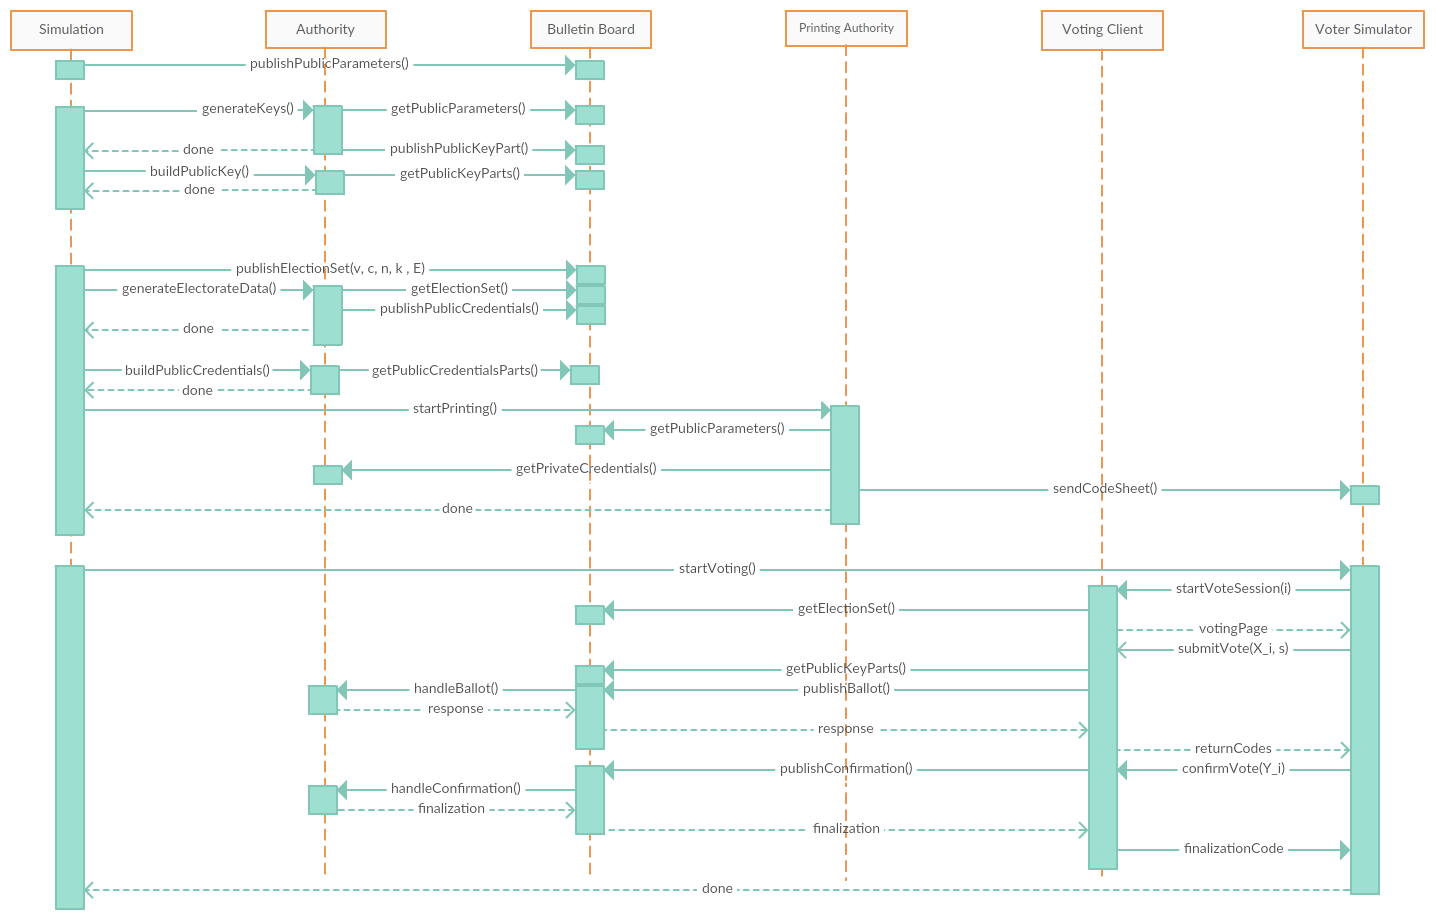
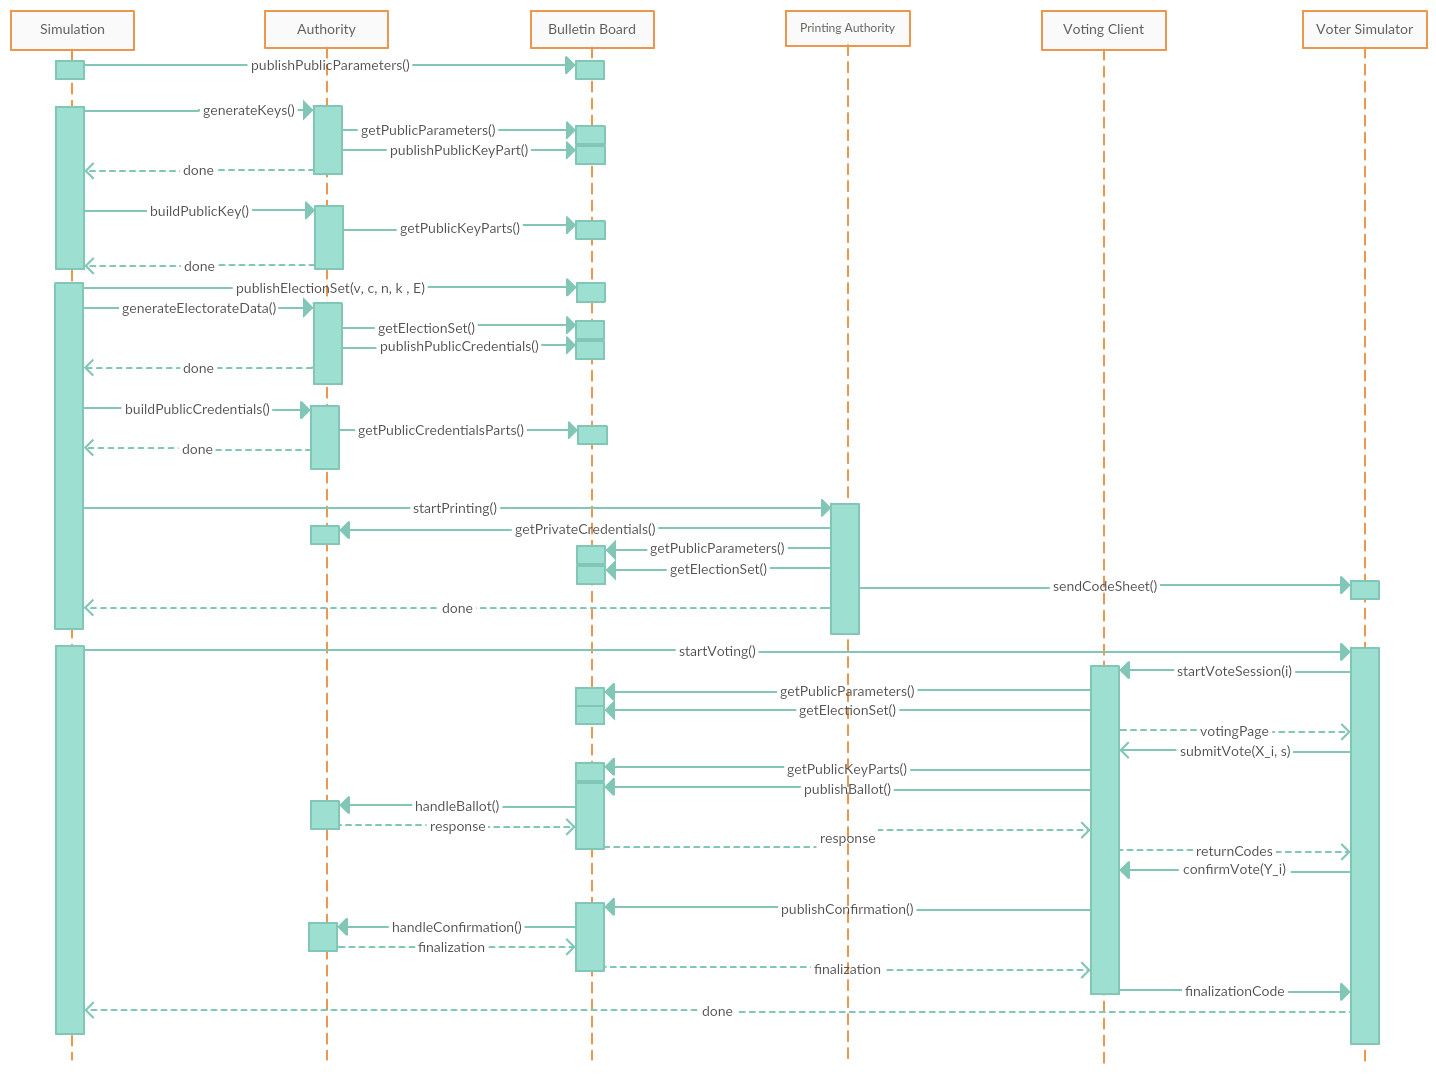
Add DefaultVotingClient implementation Add simulation implementation of PrintingAuthority

diff --git a/src/main/java/ch/ge/ve/protopoc/service/protocol/DefaultVotingClient.java b/src/main/java/ch/ge/ve/protopoc/service/protocol/DefaultVotingClient.java
@@ -1,0 +1,127 @@
+package ch.ge.ve.protopoc.service.protocol;
+
+import ch.ge.ve.protopoc.service.algorithm.KeyEstablishmentAlgorithms;
+import ch.ge.ve.protopoc.service.algorithm.VoteCastingClientAlgorithms;
+import ch.ge.ve.protopoc.service.algorithm.VoteConfirmationClientAlgorithms;
+import ch.ge.ve.protopoc.service.exception.*;
+import ch.ge.ve.protopoc.service.model.*;
+import ch.ge.ve.protopoc.service.model.polynomial.Point;
+import com.google.common.base.Preconditions;
+
+import java.math.BigInteger;
+import java.util.List;
+import java.util.stream.Collectors;
+
+/**
+ * Default implementation for the {@link VotingClientService}
+ */
+public class DefaultVotingClient implements VotingClientService {
+    private final BulletinBoardService bulletinBoardService;
+    private final KeyEstablishmentAlgorithms keyEstablishmentAlgorithms;
+    private final VoteCastingClientAlgorithms voteCastingClientAlgorithms;
+    private final VoteConfirmationClientAlgorithms voteConfirmationClientAlgorithms;
+    private PublicParameters publicParameters;
+    private ElectionSet electionSet;
+    private Integer voterIndex;
+    private List<BigInteger> randomizations;
+    private List<Integer> voterSelectionCounts;
+    private List<List<Point>> pointMatrix;
+
+    public DefaultVotingClient(BulletinBoardService bulletinBoardService,
+                               KeyEstablishmentAlgorithms keyEstablishmentAlgorithms,
+                               VoteCastingClientAlgorithms voteCastingClientAlgorithms,
+                               VoteConfirmationClientAlgorithms voteConfirmationClientAlgorithms) {
+        this.bulletinBoardService = bulletinBoardService;
+        this.keyEstablishmentAlgorithms = keyEstablishmentAlgorithms;
+        this.voteCastingClientAlgorithms = voteCastingClientAlgorithms;
+        this.voteConfirmationClientAlgorithms = voteConfirmationClientAlgorithms;
+    }
+
+    @Override
+    public VotingPageData startVoteSession(Integer voterIndex) {
+        this.voterIndex = voterIndex;
+        publicParameters = bulletinBoardService.getPublicParameters();
+        electionSet = bulletinBoardService.getElectionSet();
+
+        Voter voter = electionSet.getVoters().get(voterIndex);
+        voterSelectionCounts = electionSet.getElections().stream()
+                .map(e -> electionSet.isEligible(voter, e) ? e.getNumberOfSelections() : 0)
+                .collect(Collectors.toList());
+
+
+        return new VotingPageData(voterSelectionCounts);
+    }
+
+    @Override
+    public byte[][] sumbitVote(byte[] identificationCredentials, List<Integer> selections) throws VoteCastingException {
+        Preconditions.checkState(publicParameters != null,
+                "The public parameters need to have been retrieved first");
+        Preconditions.checkState(electionSet != null,
+                "The electionSet needs to have been retrieved first");
+
+        List<EncryptionPublicKey> publicKeyParts = bulletinBoardService.getPublicKeyParts();
+        EncryptionPublicKey systemPublicKey = keyEstablishmentAlgorithms.getPublicKey(publicKeyParts);
+
+        BallotQueryAndRand ballotQueryAndRand = computeBallot(identificationCredentials, selections, systemPublicKey);
+        randomizations = ballotQueryAndRand.getBold_r();
+
+        List<ObliviousTransferResponse> obliviousTransferResponses = sentBallotAndQuery(ballotQueryAndRand.getAlpha());
+
+        pointMatrix = computePointMatrix(selections, obliviousTransferResponses);
+
+        return voteCastingClientAlgorithms.getReturnCodes(pointMatrix);
+    }
+
+    private BallotQueryAndRand computeBallot(byte[] identificationCredentials, List<Integer> selections, EncryptionPublicKey systemPublicKey) throws VoteCastingException {
+        BallotQueryAndRand ballotQueryAndRand;
+        try {
+            ballotQueryAndRand =
+                    voteCastingClientAlgorithms.genBallot(identificationCredentials, selections, systemPublicKey);
+        } catch (IncompatibleParametersException e) {
+            throw new VoteCastingException(e);
+        }
+        return ballotQueryAndRand;
+    }
+
+    private List<ObliviousTransferResponse> sentBallotAndQuery(BallotAndQuery ballotAndQuery) throws VoteCastingException {
+        List<ObliviousTransferResponse> obliviousTransferResponses;
+        try {
+            obliviousTransferResponses = bulletinBoardService.publishBallot(voterIndex, ballotAndQuery);
+        } catch (IncorrectBallotOrQueryException e) {
+            throw new VoteCastingException(e);
+        }
+        return obliviousTransferResponses;
+    }
+
+    private List<List<Point>> computePointMatrix(List<Integer> selections, List<ObliviousTransferResponse> obliviousTransferResponses) throws VoteCastingException {
+        List<List<Point>> pointMatrix;
+        try {
+            pointMatrix = voteCastingClientAlgorithms.getPointMatrix(obliviousTransferResponses, voterSelectionCounts, selections, randomizations);
+        } catch (InvalidObliviousTransferResponseException e) {
+            throw new VoteCastingException(e);
+        }
+        return pointMatrix;
+    }
+
+    @Override
+    public byte[] confirmVote(byte[] confirmationCredentials) throws VoteConfirmationException {
+        Preconditions.checkState(publicParameters != null,
+                "The public parameters need to have been retrieved first");
+        Preconditions.checkState(electionSet != null,
+                "The electionSet needs to have been retrieved first");
+        Preconditions.checkState(pointMatrix != null,
+                "The point matrix needs to have been computed first");
+
+        Confirmation confirmation = voteConfirmationClientAlgorithms.genConfirmation(voterIndex,
+                confirmationCredentials, pointMatrix, voterSelectionCounts);
+
+        List<FinalizationCodePart> finalizationCodeParts;
+        try {
+            finalizationCodeParts = bulletinBoardService.publishConfirmation(voterIndex, confirmation);
+        } catch (IncorrectConfirmationException e) {
+            throw new VoteConfirmationException(e);
+        }
+
+        return voteConfirmationClientAlgorithms.getFinalizationCode(finalizationCodeParts);
+    }
+}

diff --git a/src/main/java/ch/ge/ve/protopoc/service/algorithm/VoteCastingClientAlgorithms.java b/src/main/java/ch/ge/ve/protopoc/service/algorithm/VoteCastingClientAlgorithms.java
@@ -1,7 +1,7 @@
 package ch.ge.ve.protopoc.service.algorithm;
 
 import ch.ge.ve.protopoc.service.exception.IncompatibleParametersException;
-import ch.ge.ve.protopoc.service.exception.InvalidObliviousTransferResponse;
+import ch.ge.ve.protopoc.service.exception.InvalidObliviousTransferResponseException;
 import ch.ge.ve.protopoc.service.exception.NotEnoughPrimesInGroupException;
 import ch.ge.ve.protopoc.service.model.*;
 import ch.ge.ve.protopoc.service.model.polynomial.Point;
@@ -177,13 +177,13 @@ public class VoteCastingClientAlgorithms {
      * @param bold_s    the vector of selected primes
      * @param bold_r    the vector of randomizations used for the OT query
      * @return the point matrix corresponding to the replies of the s authorities for the k selections
-     * @throws InvalidObliviousTransferResponse when one of the points would be outside the defined space
+     * @throws InvalidObliviousTransferResponseException when one of the points would be outside the defined space
      */
     public List<List<Point>> getPointMatrix(
             List<ObliviousTransferResponse> bold_beta,
             List<Integer> bold_k,
             List<Integer> bold_s,
-            List<BigInteger> bold_r) throws InvalidObliviousTransferResponse {
+            List<BigInteger> bold_r) throws InvalidObliviousTransferResponseException {
         List<List<Point>> bold_P = new ArrayList<>();
 
         for (ObliviousTransferResponse beta_j : bold_beta) {
@@ -201,13 +201,13 @@ public class VoteCastingClientAlgorithms {
      * @param bold_s the vector of selected primes
      * @param bold_r the vector of randomizations used for the OT query
      * @return the points corresponding to the authority's reply for the k selections
-     * @throws InvalidObliviousTransferResponse when one of the points would be outside the defined space
+     * @throws InvalidObliviousTransferResponseException when one of the points would be outside the defined space
      */
     public List<Point> getPoints(
             ObliviousTransferResponse beta,
             List<Integer> bold_k,
             List<Integer> bold_s,
-            List<BigInteger> bold_r) throws InvalidObliviousTransferResponse {
+            List<BigInteger> bold_r) throws InvalidObliviousTransferResponseException {
         List<Point> bold_p = new ArrayList<>();
         List<BigInteger> b = beta.getB();
         byte[][] c = beta.getC();
@@ -223,7 +223,7 @@ public class VoteCastingClientAlgorithms {
                 BigInteger x_i = conversion.toInteger(Arrays.copyOfRange(M_i, 0, L_m / 2 + 1));
                 BigInteger y_i = conversion.toInteger(Arrays.copyOfRange(M_i, L_m / 2 + 1, M_i.length));
                 if (x_i.compareTo(p_prime) >= 0 || y_i.compareTo(p_prime) >= 0) {
-                    throw new InvalidObliviousTransferResponse("x_i >= p' or y_i >= p'");
+                    throw new InvalidObliviousTransferResponseException("x_i >= p' or y_i >= p'");
                 }
                 bold_p.add(new Point(x_i, y_i));
                 i++;

diff --git a/src/main/java/ch/ge/ve/protopoc/service/simulation/PrintingAuthoritySimulator.java b/src/main/java/ch/ge/ve/protopoc/service/simulation/PrintingAuthoritySimulator.java
@@ -1,0 +1,47 @@
+package ch.ge.ve.protopoc.service.simulation;
+
+import ch.ge.ve.protopoc.service.algorithm.CodeSheetPreparationAlgorithms;
+import ch.ge.ve.protopoc.service.model.CodeSheet;
+import ch.ge.ve.protopoc.service.model.ElectionSet;
+import ch.ge.ve.protopoc.service.model.PublicParameters;
+import ch.ge.ve.protopoc.service.model.SecretVoterData;
+import ch.ge.ve.protopoc.service.protocol.AuthorityService;
+import ch.ge.ve.protopoc.service.protocol.BulletinBoardService;
+import com.google.common.base.Preconditions;
+
+import java.util.ArrayList;
+import java.util.List;
+
+/**
+ * Simulation class for the Printing Authority
+ */
+public class PrintingAuthoritySimulator {
+    private final BulletinBoardService bulletinBoardService;
+    private final List<AuthorityService> authorities = new ArrayList<>();
+    private final CodeSheetPreparationAlgorithms codeSheetPreparationAlgorithms;
+
+    public PrintingAuthoritySimulator(BulletinBoardService bulletinBoardService, CodeSheetPreparationAlgorithms codeSheetPreparationAlgorithms) {
+        this.bulletinBoardService = bulletinBoardService;
+        this.codeSheetPreparationAlgorithms = codeSheetPreparationAlgorithms;
+    }
+
+    public void setAuthorities(List<AuthorityService> authorities) {
+        Preconditions.checkState(this.authorities.isEmpty(),
+                "The authorities cannot be changed once they have been set");
+        this.authorities.addAll(authorities);
+    }
+
+    public void startPrinting() {
+        PublicParameters publicParameters = bulletinBoardService.getPublicParameters();
+        Preconditions.checkState(authorities.size() == publicParameters.getS(),
+                "The number of authorities should match the public parameters");
+        ElectionSet electionSet = bulletinBoardService.getElectionSet();
+
+        List<List<SecretVoterData>> voterDataMatrix = new ArrayList<>();
+        for (AuthorityService authority : authorities) {
+            voterDataMatrix.add(authority.getPrivateCredentials());
+        }
+
+        List<CodeSheet> sheets = codeSheetPreparationAlgorithms.getSheets(electionSet, voterDataMatrix);
+    }
+}

diff --git a/src/main/java/ch/ge/ve/protopoc/service/protocol/DefaultBulletinBoard.java b/src/main/java/ch/ge/ve/protopoc/service/protocol/DefaultBulletinBoard.java
@@ -11,7 +11,7 @@ import java.util.*;
 import java.util.stream.Collectors;
 
 /**
- * Default implementation of the bulletin board service
+ * Default implementation of the {@link BulletinBoardService}
  */
 public class DefaultBulletinBoard implements BulletinBoardService {
     private final List<AuthorityService> authorities = new ArrayList<>();
@@ -114,19 +114,18 @@ public class DefaultBulletinBoard implements BulletinBoardService {
     }
 
     @Override
-    public byte[][] publishConfirmation(Integer voterIndex, Confirmation confirmation)
+    public List<FinalizationCodePart> publishConfirmation(Integer voterIndex, Confirmation confirmation)
             throws IncorrectConfirmationException {
         Preconditions.checkState(publicParameters != null,
                 "The public parameters need to have been defined first");
         Preconditions.checkState(authorities.size() == publicParameters.getS(),
                 "The number of authorities should match the public parameters");
 
-        byte[][] finalizationCodeParts = new byte[authorities.size()][];
+        List<FinalizationCodePart> finalizationCodeParts = new ArrayList<>();
 
         for (int i = 0; i < authorities.size(); i++) {
             AuthorityService authority = authorities.get(i);
-            FinalizationCodePart finalizationCodePart = authority.handleConfirmation(voterIndex, confirmation);
-            finalizationCodeParts[i] = finalizationCodePart.getF();
+            finalizationCodeParts.add(authority.handleConfirmation(voterIndex, confirmation));
         }
 
         return finalizationCodeParts;

diff --git a/src/main/java/ch/ge/ve/protopoc/service/algorithm/KeyEstablishmentAlgorithms.java b/src/main/java/ch/ge/ve/protopoc/service/algorithm/KeyEstablishmentAlgorithms.java
@@ -7,6 +7,7 @@ import ch.ge.ve.protopoc.service.support.RandomGenerator;
 
 import java.math.BigInteger;
 import java.security.KeyPair;
+import java.util.List;
 
 /**
  * Algorithms used during the key establishment part of the election preparation phase
@@ -36,10 +37,10 @@ public class KeyEstablishmentAlgorithms {
      * @param publicKeys the set of public key shares that should be combined
      * @return the combined public key
      */
-    public EncryptionPublicKey getPublicKey(EncryptionPublicKey... publicKeys) {
+    public EncryptionPublicKey getPublicKey(List<EncryptionPublicKey> publicKeys) {
         // check all encryption groups are equal
         BigInteger publicKey = BigInteger.ONE;
-        EncryptionGroup eg = publicKeys[0].getEncryptionGroup();
+        EncryptionGroup eg = publicKeys.get(0).getEncryptionGroup();
         for (EncryptionPublicKey key : publicKeys) {
             publicKey = publicKey.multiply(key.getPublicKey()).mod(eg.getP());
         }

diff --git a/src/main/java/ch/ge/ve/protopoc/service/protocol/VotingClientService.java b/src/main/java/ch/ge/ve/protopoc/service/protocol/VotingClientService.java
@@ -1,8 +1,10 @@
 package ch.ge.ve.protopoc.service.protocol;
 
+import ch.ge.ve.protopoc.service.exception.IncompatibleParametersException;
+import ch.ge.ve.protopoc.service.exception.VoteCastingException;
+import ch.ge.ve.protopoc.service.exception.VoteConfirmationException;
 import ch.ge.ve.protopoc.service.model.VotingPageData;
 
-import java.math.BigInteger;
 import java.util.List;
 
 /**
@@ -11,7 +13,7 @@ import java.util.List;
 public interface VotingClientService {
     VotingPageData startVoteSession(Integer voterIndex);
 
-    byte[][] sumbitVote(byte[] identificationCredentials, List<BigInteger> selections);
+    byte[][] sumbitVote(byte[] identificationCredentials, List<Integer> selections) throws IncompatibleParametersException, VoteCastingException;
 
-    byte[] confirmVote(byte[] confirmationCredentials);
+    byte[] confirmVote(byte[] confirmationCredentials) throws VoteConfirmationException;
 }

diff --git a/src/main/java/ch/ge/ve/protopoc/service/exception/InvalidObliviousTransferResponseException.java b/src/main/java/ch/ge/ve/protopoc/service/exception/InvalidObliviousTransferResponseException.java
@@ -4,8 +4,8 @@ package ch.ge.ve.protopoc.service.exception;
  * Exception thrown on the voting client when an invalid oblivious transfer response is detected.
  * (or a computation error occurred...)
  */
-public class InvalidObliviousTransferResponse extends Exception {
-    public InvalidObliviousTransferResponse(String s) {
+public class InvalidObliviousTransferResponseException extends Exception {
+    public InvalidObliviousTransferResponseException(String s) {
         super(s);
     }
 }

diff --git a/src/main/java/ch/ge/ve/protopoc/service/model/VotingPageData.java b/src/main/java/ch/ge/ve/protopoc/service/model/VotingPageData.java
@@ -1,7 +1,18 @@
 package ch.ge.ve.protopoc.service.model;
 
+import java.util.List;
+
 /**
  * Model class containing the data necessary for presenting the voting page to the voter
  */
 public class VotingPageData {
+    private final List<Integer> selectionCounts;
+
+    public VotingPageData(List<Integer> selectionCounts) {
+        this.selectionCounts = selectionCounts;
+    }
+
+    public List<Integer> getSelectionCounts() {
+        return selectionCounts;
+    }
 }

diff --git a/src/main/java/ch/ge/ve/protopoc/service/protocol/DefaultAuthority.java b/src/main/java/ch/ge/ve/protopoc/service/protocol/DefaultAuthority.java
@@ -70,7 +70,7 @@ public class DefaultAuthority implements AuthorityService {
         Preconditions.checkArgument(publicKeyParts.size() == publicParameters.getS());
         Preconditions.checkArgument(publicKeyParts.get(j).equals(myPublicKey));
 
-        systemPublicKey = keyEstablishmentAlgorithms.getPublicKey(publicKeyParts.toArray(new EncryptionPublicKey[0]));
+        systemPublicKey = keyEstablishmentAlgorithms.getPublicKey(publicKeyParts);
     }
 
     @Override

diff --git a/src/main/java/ch/ge/ve/protopoc/service/protocol/BulletinBoardService.java b/src/main/java/ch/ge/ve/protopoc/service/protocol/BulletinBoardService.java
@@ -28,5 +28,5 @@ public interface BulletinBoardService {
 
     List<ObliviousTransferResponse> publishBallot(Integer voterIndex, BallotAndQuery ballotAndQuery) throws IncorrectBallotOrQueryException;
 
-    byte[][] publishConfirmation(Integer voterIndex, Confirmation confirmation) throws IncorrectConfirmationException;
+    List<FinalizationCodePart> publishConfirmation(Integer voterIndex, Confirmation confirmation) throws IncorrectConfirmationException;
 }

diff --git a/src/main/java/ch/ge/ve/protopoc/service/exception/VoteConfirmationException.java b/src/main/java/ch/ge/ve/protopoc/service/exception/VoteConfirmationException.java
@@ -1,0 +1,10 @@
+package ch.ge.ve.protopoc.service.exception;
+
+/**
+ * Exception thrown when an error occurs while the voting client is trying to confirm a vote
+ */
+public class VoteConfirmationException extends Exception {
+    public VoteConfirmationException(Exception cause) {
+        super(cause);
+    }
+}

diff --git a/src/main/java/ch/ge/ve/protopoc/service/exception/VoteCastingException.java b/src/main/java/ch/ge/ve/protopoc/service/exception/VoteCastingException.java
@@ -1,0 +1,10 @@
+package ch.ge.ve.protopoc.service.exception;
+
+/**
+ * Exception thrown when an error occurs during the vote casting process
+ */
+public class VoteCastingException extends Exception {
+    public VoteCastingException(Exception cause) {
+        super(cause);
+    }
+}
